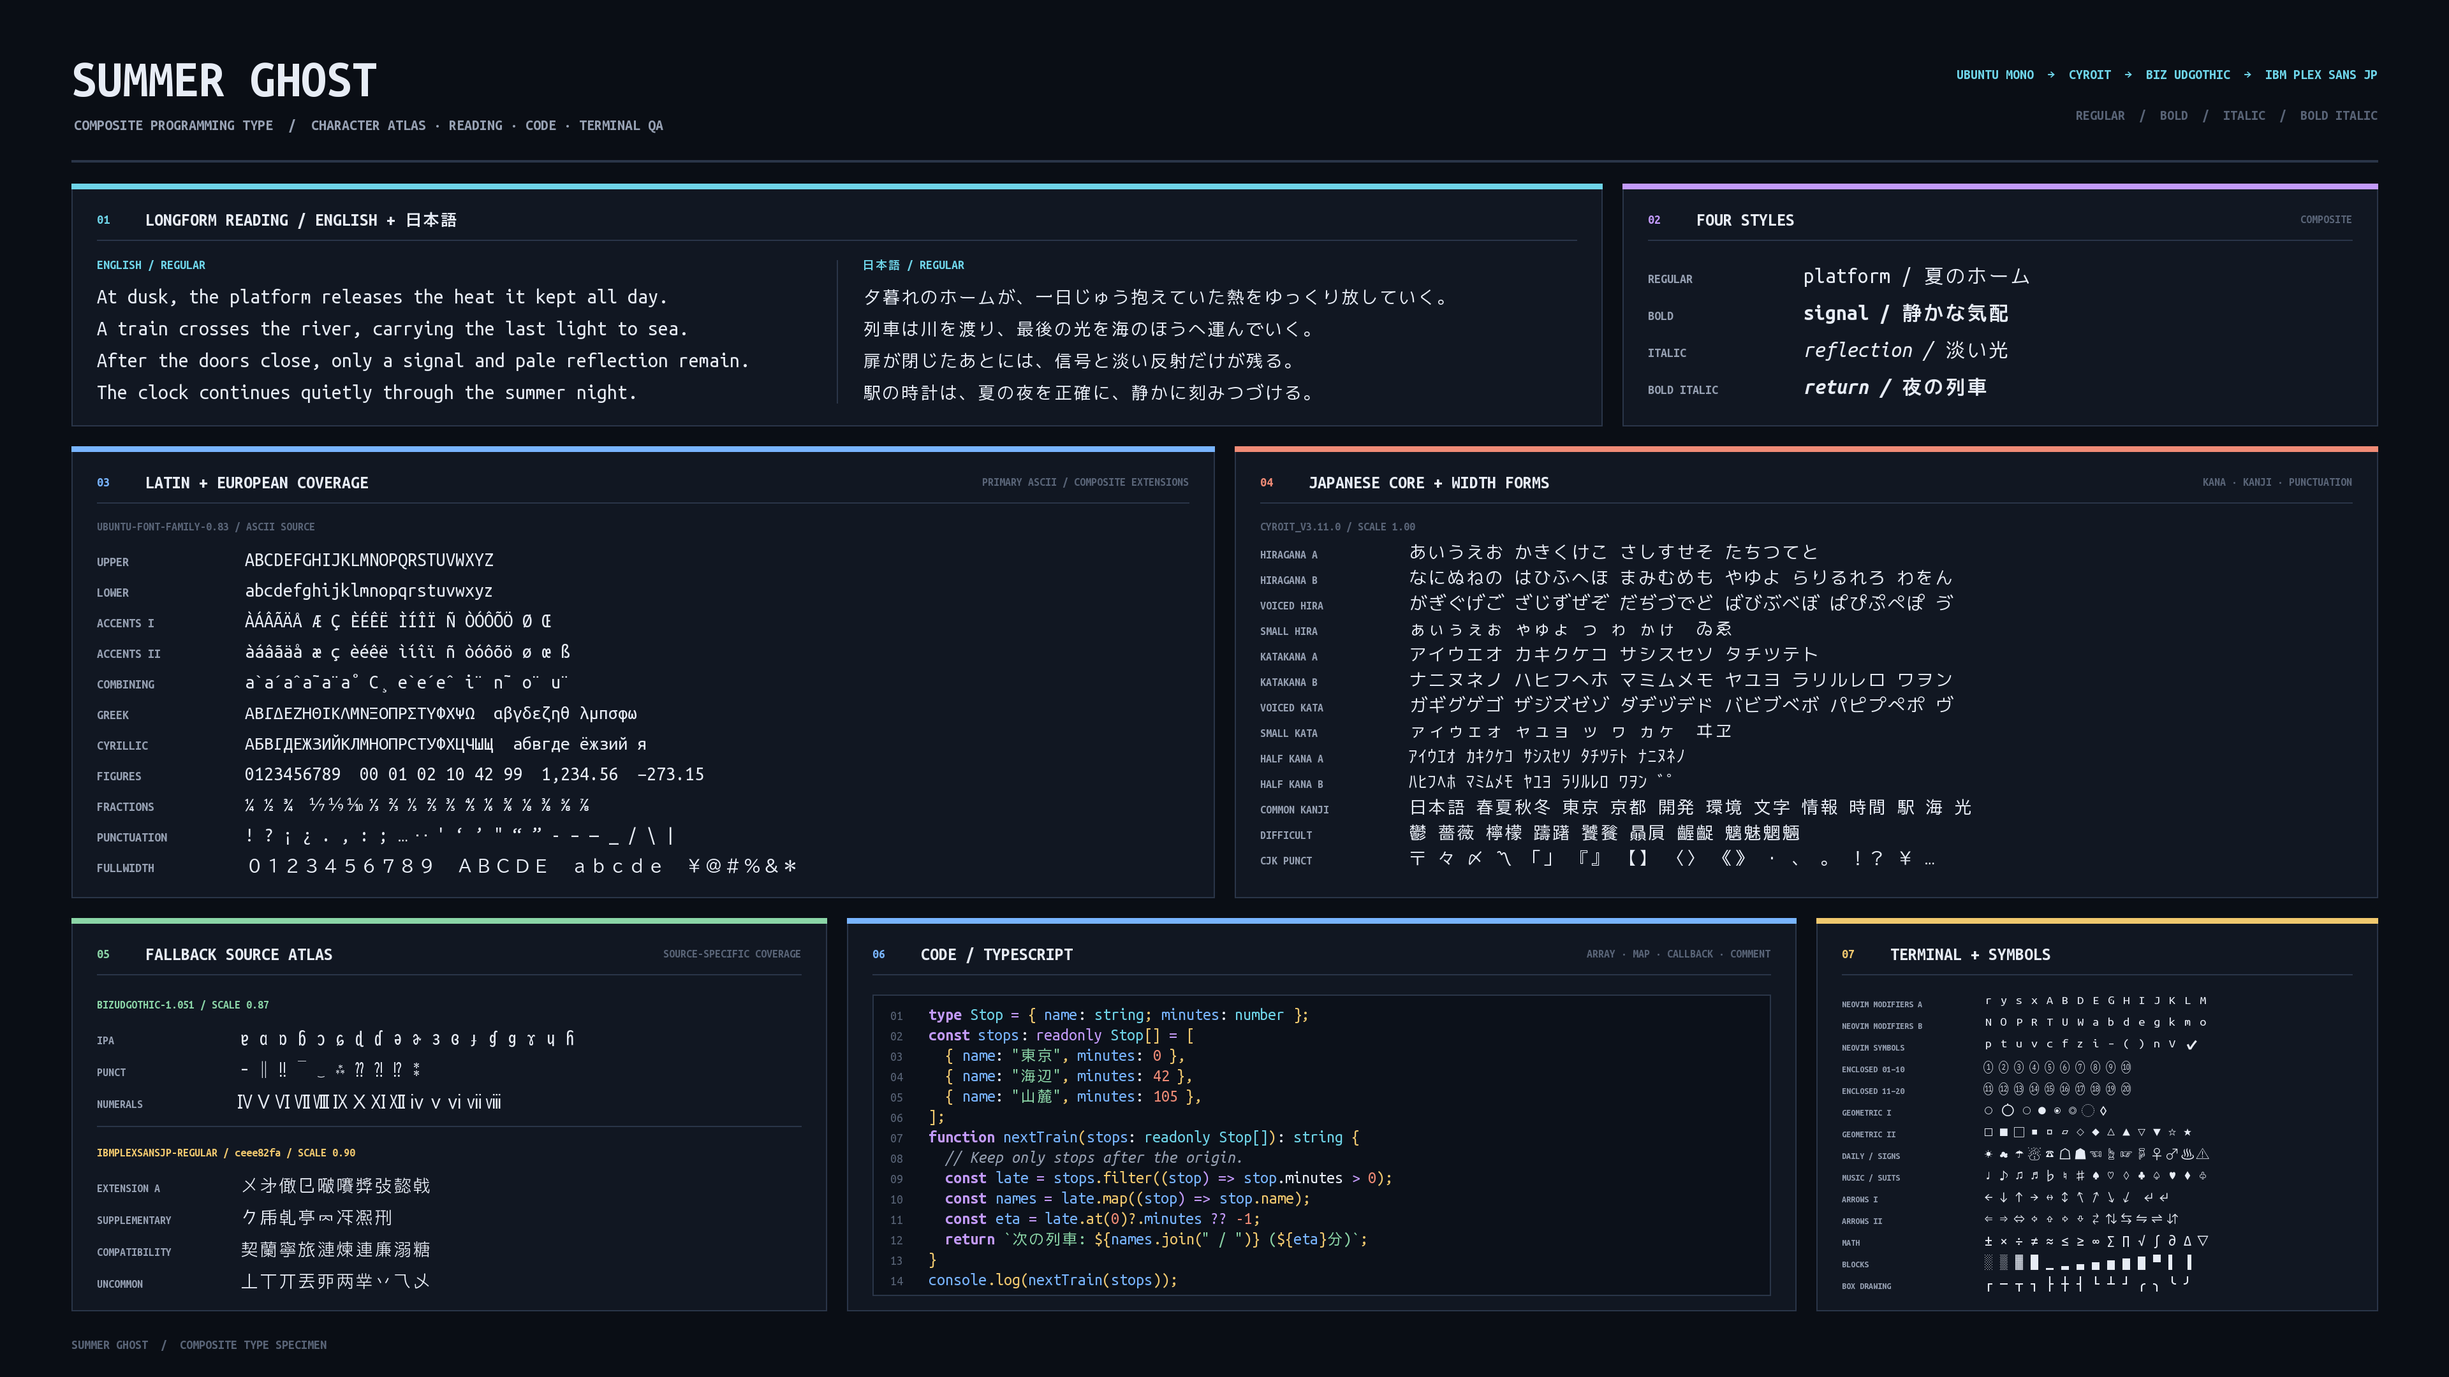
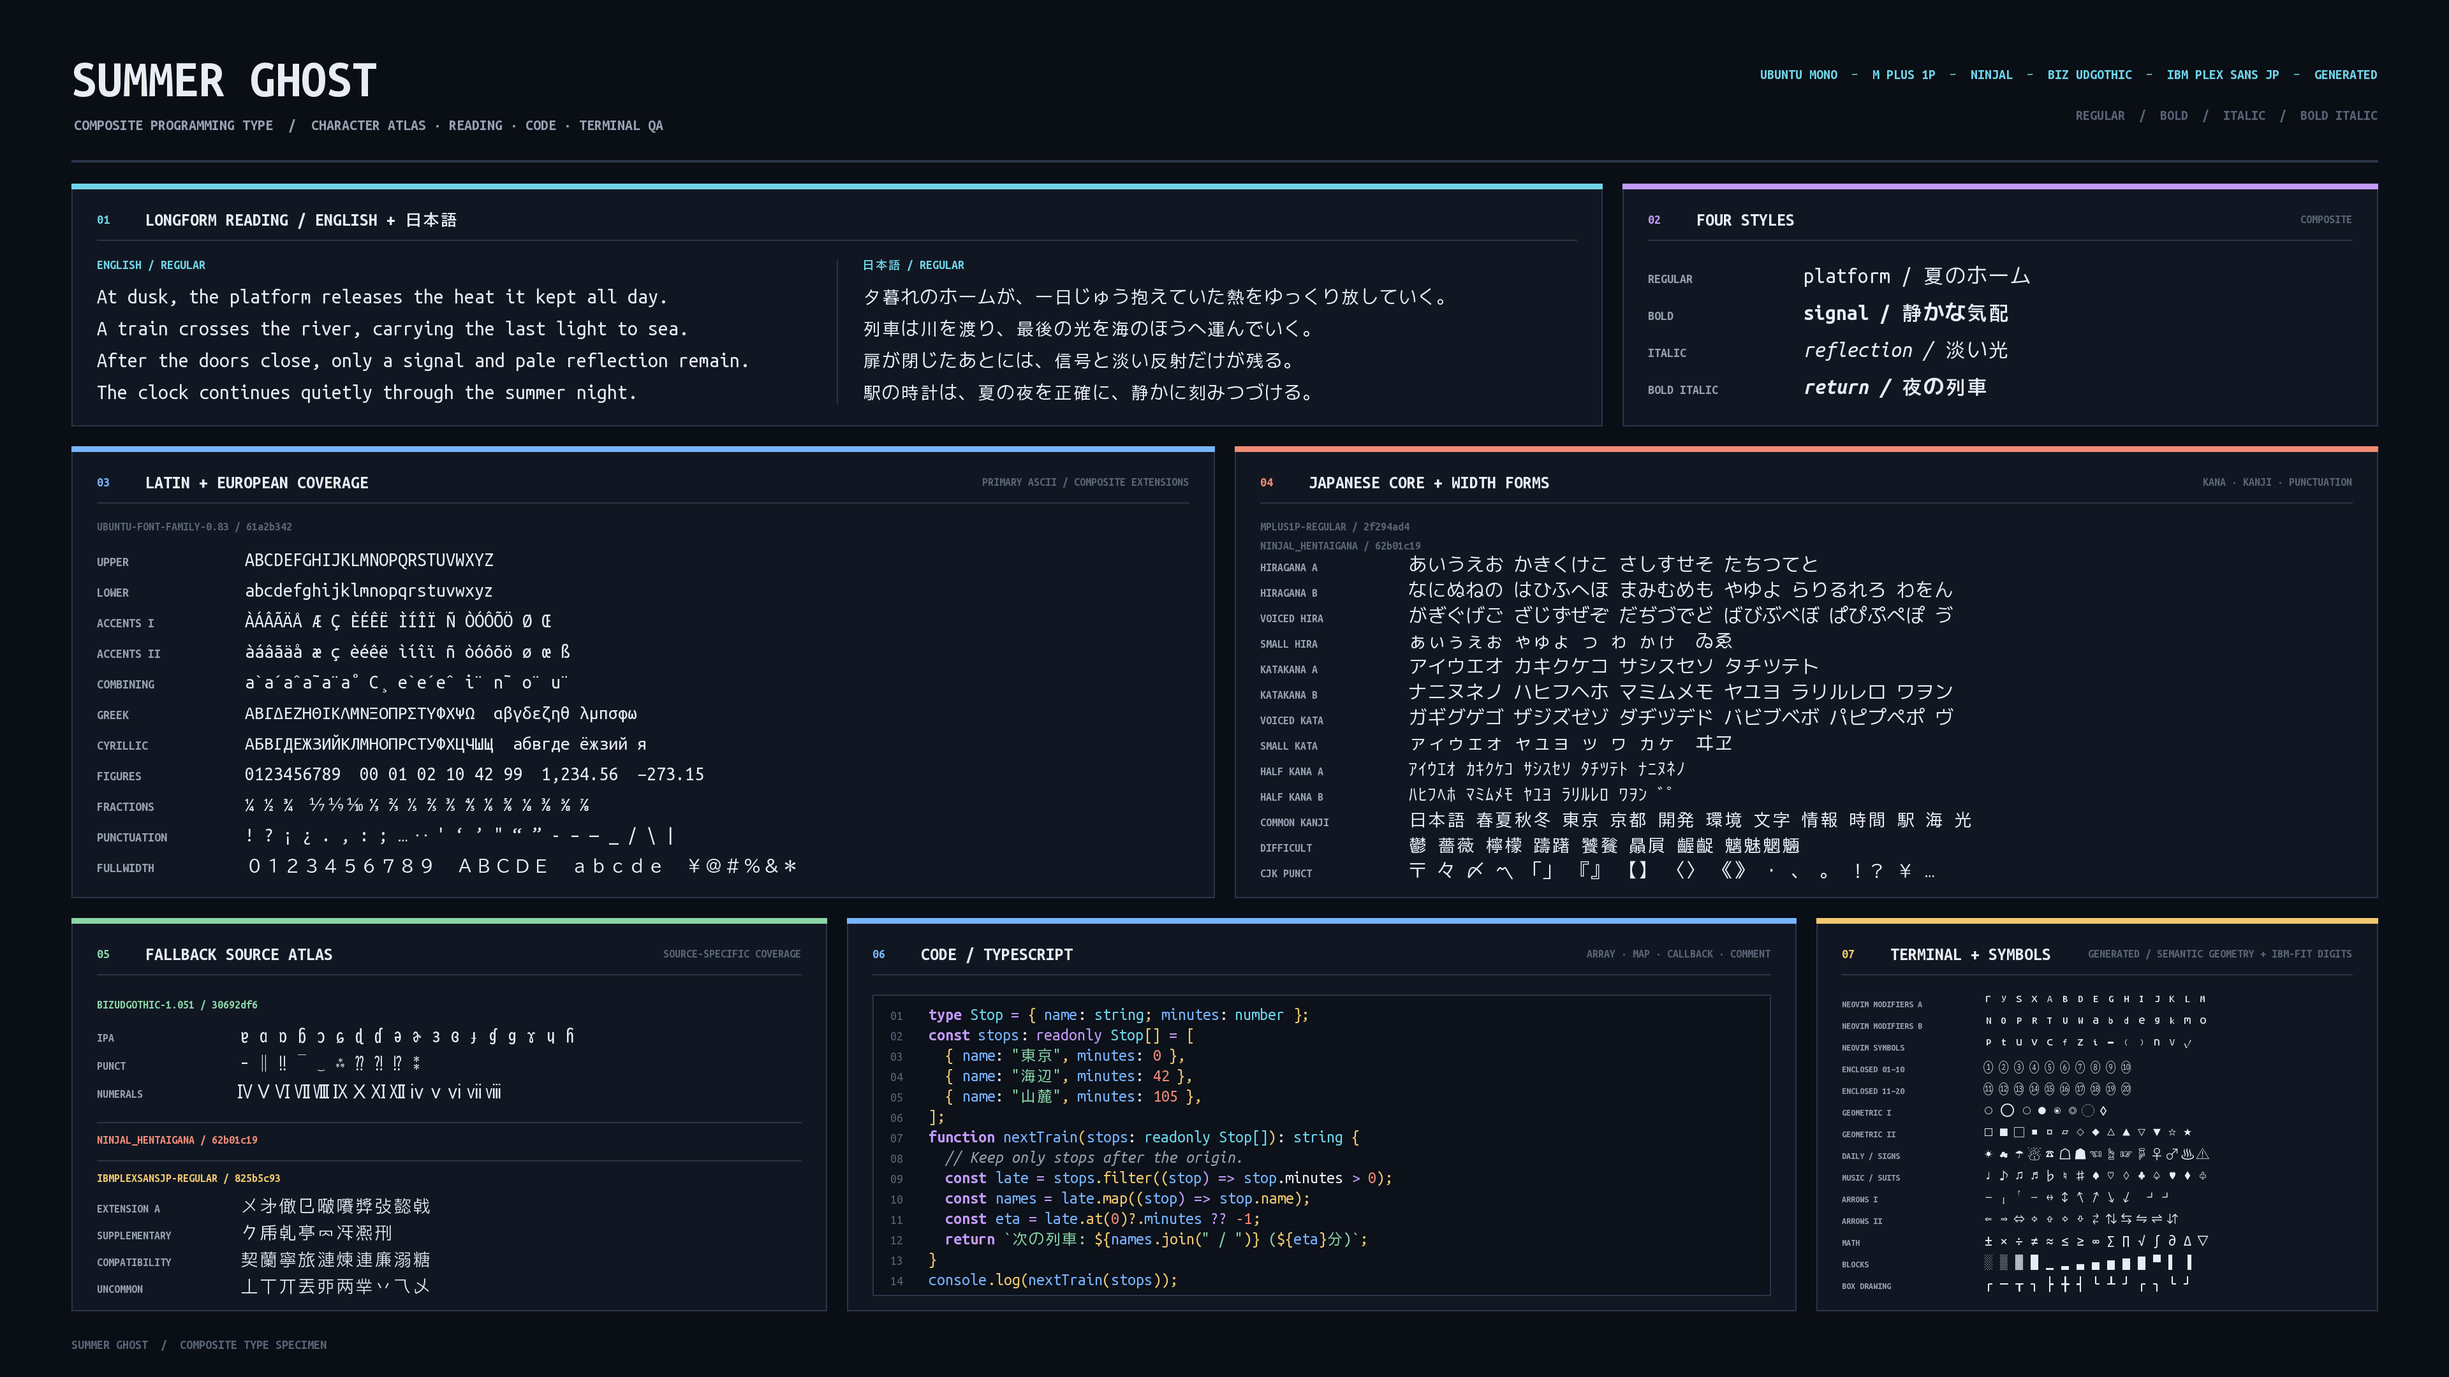
docs: update readme

diff --git a/scripts/render_specimen.py b/scripts/render_specimen.py
@@ -13,7 +13,6 @@ from io import BytesIO
 from pathlib import Path
 from typing import Any
 
-import build as font_build
 from fontTools.ttLib import TTFont
 from PIL import Image, ImageDraw, ImageFont
 
@@ -73,9 +72,11 @@ class Sources:
     """Source labels read from the generated provenance document."""
 
     ubuntu: str
-    cyroit: str
+    mplus1p: str
     biz: str
+    ninjal: str
     ibm: str
+    generated: str
 
 
 LATIN_ROWS = (
@@ -108,8 +109,8 @@ JAPANESE_ROWS = (
     Row("CJK PUNCT", "〒 々 〆 〽 「」 『』 【】 〈〉 《》 ・ 、 。 ！？ ￥ …"),
 )
 
-# These sets were selected by applying the build's source-precedence rules to the
-# source cmaps. Each character in a row resolves exclusively to the named fallback.
+# These sets are provenance probes. The final build may expose a full origin index or
+# only sample anchors; rendering remains useful in either case.
 BIZ_ROWS = (
     Row("IPA", "ɐ ɑ ɒ ɓ ɔ ɕ ɖ ɗ ə ɚ ɜ ɞ ɟ ɠ ɡ ɤ ɥ ɦ"),
     Row("PUNCT", "‐ ‖ ‼ ‾ ‿ ⁂ ⁇ ⁈ ⁉ ⁑"),
@@ -241,67 +242,95 @@ def font(style: str = "Regular", size: int = 16) -> ImageFont.FreeTypeFont:
     return ImageFont.truetype(BytesIO(font_data(style)), size=size * SCALE)
 
 
-def _asset_name(document: dict[str, Any], prefix: str) -> str:
-    """Return one provenance asset name by stable prefix."""
-    matches = [asset["name"] for asset in document["assets"] if asset["name"].startswith(prefix)]
-    if len(matches) != 1:
-        raise ValueError(f"expected one provenance asset for {prefix!r}, found {matches}")
-    return str(matches[0])
+def _asset_label(document: Mapping[str, Any], tokens: Sequence[str], fallback: str) -> str:
+    """Return a compact label without depending on a particular asset filename."""
+    assets = document.get("assets", ())
+    for asset in assets if isinstance(assets, Sequence) else ():
+        if not isinstance(asset, Mapping):
+            continue
+        haystack = " ".join(str(asset.get(key, "")) for key in ("name", "url")).casefold()
+        if all(token.casefold() in haystack for token in tokens):
+            name = str(asset.get("name", fallback)).removesuffix(".zip").removesuffix(".ttf")
+            digest = str(asset.get("sha256", ""))
+            suffix = f" / {digest[:8]}" if len(digest) >= 8 else ""
+            return f"{name.upper()}{suffix}"
+    return fallback
+
+
+def _style_record(document: Mapping[str, Any]) -> Mapping[str, Any]:
+    """Read the first style record while accepting future provenance wrappers."""
+    styles = document.get("styles", ())
+    if isinstance(styles, Sequence) and styles and isinstance(styles[0], Mapping):
+        return styles[0]
+    raise ValueError("provenance has no readable style record")
+
+
+def _parse_codepoint(raw_codepoint: object) -> int:
+    """Parse integer or U+XXXX provenance keys."""
+    if isinstance(raw_codepoint, int):
+        return raw_codepoint
+    text = str(raw_codepoint).strip()
+    if text[:2].casefold() == "u+":
+        text = text[2:]
+    return int(text, 16)
 
 
 def read_sources() -> Sources:
     """Derive visible source labels and verify provenance origin anchors."""
     document: dict[str, Any] = json.loads(PROVENANCE.read_text(encoding="utf-8"))
-    style = document["styles"][0]
-    scales = style["scales"]
-    origins = style["sample_origins"]
-    expected = {"U+0041": "ubuntu", "U+3042": "cyroit", "U+FF11": "biz", "U+3405": "ibm"}
-    if any(origins.get(codepoint) != source for codepoint, source in expected.items()):
-        raise ValueError(f"provenance anchors changed: {origins}")
-    ubuntu_asset = _asset_name(document, "ubuntu-font-family-")
-    cyroit_asset = _asset_name(document, "Cyroit_v3.11.0")
-    biz_asset = _asset_name(document, "BIZUDGothic-")
-    ibm_asset = _asset_name(document, "IBMPlexSansJP-Regular")
+    style = _style_record(document)
+    origins = style.get("sample_origins", {})
+    if not isinstance(origins, Mapping):
+        origins = {}
+    expected = {"U+0041": "ubuntu", "U+3042": "mplus1p", "U+FF11": "biz", "U+3405": "ibm"}
+    mismatches = {
+        codepoint: (expected_source, origins[codepoint])
+        for codepoint, expected_source in expected.items()
+        if codepoint in origins and origins[codepoint] != expected_source
+    }
+    if mismatches:
+        raise ValueError(f"provenance anchors changed: {mismatches}")
     return Sources(
-        ubuntu=f"{ubuntu_asset.removesuffix('.zip').upper()} / ASCII SOURCE",
-        cyroit=f"{cyroit_asset.removesuffix('.zip').upper()} / SCALE {scales['cyroit']:.2f}",
-        biz=f"{biz_asset.removesuffix('.zip').upper()} / SCALE {scales['biz']:.2f}",
-        ibm=(
-            f"{ibm_asset.removesuffix('.ttf').upper()} / {str(document['ibm_commit'])[:8]} / SCALE {scales['ibm']:.2f}"
-        ),
+        ubuntu=_asset_label(document, ("ubuntu",), "UBUNTU MONO / ASCII SOURCE"),
+        mplus1p=_asset_label(document, ("mplus1p", "regular"), "M PLUS 1P / JAPANESE BASE"),
+        biz=_asset_label(document, ("bizudgothic",), "BIZ UDGOTHIC / JAPANESE FALLBACK"),
+        ninjal=_asset_label(document, ("ninjal",), "NINJAL HENTAIGANA / DIRECT LAYER"),
+        ibm=_asset_label(document, ("ibmplexsansjp", "regular"), "IBM PLEX SANS JP / FALLBACK"),
+        generated="GENERATED / SEMANTIC GEOMETRY",
     )
 
 
-def regular_source_origins() -> Mapping[int, str]:
-    """Reconstruct Regular's origin map using the build's fixed source precedence."""
-    roots = font_build.fetch_sources()
-    paths = {
-        source: roots[source] / filename
-        for source, filename in zip(font_build.SOURCE_ORDER, font_build.STYLES["Regular"], strict=True)
-    }
-    source_cmaps: dict[str, set[int]] = {}
-    for source, path in paths.items():
-        with TTFont(path, lazy=True) as source_font:
-            source_cmaps[source] = set(source_font.getBestCmap())
-
-    origins = {codepoint: "ubuntu" for codepoint in source_cmaps["ubuntu"] if not font_build.is_private_use(codepoint)}
-    for codepoint in source_cmaps["cyroit"]:
-        if (
-            codepoint not in origins
-            and not font_build.is_private_use(codepoint)
-            and font_build.is_adjusted_japanese(codepoint)
-        ):
-            origins[codepoint] = "cyroit"
-    for source in font_build.SOURCE_ORDER[2:]:
-        for codepoint in source_cmaps[source]:
-            if codepoint not in origins and not font_build.is_private_use(codepoint):
-                origins[codepoint] = source
-    return origins
+def regular_source_origins(document: Mapping[str, Any]) -> Mapping[int, str]:
+    """Read an optional provenance origin index without importing the builder."""
+    style = _style_record(document)
+    candidates = (style.get("codepoint_origins"), style.get("origins"), document.get("origin_index"))
+    candidate = next((value for value in candidates if isinstance(value, Mapping)), {})
+    parsed: dict[int, str] = {}
+    for raw_codepoint, origin in candidate.items():
+        try:
+            codepoint = _parse_codepoint(raw_codepoint)
+        except (TypeError, ValueError):
+            continue
+        parsed[codepoint] = str(origin)
+    return parsed
 
 
 def validate_fallback_samples() -> None:
     """Verify fallback labels against source precedence and final font coverage."""
-    origins = regular_source_origins()
+    document: dict[str, Any] = json.loads(PROVENANCE.read_text(encoding="utf-8"))
+    style = _style_record(document)
+    origins = dict(regular_source_origins(document))
+    sample_origins = style.get("sample_origins", {})
+    if isinstance(sample_origins, Mapping):
+        for raw_codepoint, origin in sample_origins.items():
+            try:
+                origins[_parse_codepoint(raw_codepoint)] = str(origin)
+            except (TypeError, ValueError):
+                continue
+    allowed = {"ubuntu", "mplus1p", "biz", "ninjal", "ibm", "generated"}
+    unknown = sorted(set(origins.values()) - allowed)
+    if unknown:
+        raise ValueError(f"unsupported provenance origins: {unknown}")
     with TTFont(BytesIO(font_data("Regular")), lazy=True) as generated:
         cmap = generated.getBestCmap()
     for expected_source, sample_rows in (("biz", BIZ_ROWS), ("ibm", IBM_ROWS)):
@@ -310,7 +339,7 @@ def validate_fallback_samples() -> None:
             wrong_origins = [
                 f"U+{codepoint:04X}:{origins.get(codepoint, 'missing')}"
                 for codepoint in codepoints
-                if origins.get(codepoint) != expected_source
+                if codepoint in origins and origins[codepoint] != expected_source
             ]
             if wrong_origins:
                 raise ValueError(f"{expected_source} {row.label} origin mismatch: {wrong_origins}")
@@ -399,7 +428,7 @@ def draw_header(canvas: Canvas, sources: Sources) -> None:
     )
     canvas.text(
         (LOGICAL_WIDTH - MARGIN, 62),
-        "UBUNTU MONO  →  CYROIT  →  BIZ UDGOTHIC  →  IBM PLEX SANS JP",
+        "UBUNTU MONO  →  M PLUS 1P  →  NINJAL  →  BIZ UDGOTHIC  →  IBM PLEX SANS JP  →  GENERATED",
         face=font("Bold", 11),
         fill=CYAN,
         anchor="rs",
@@ -481,10 +510,11 @@ def draw_japanese(canvas: Canvas, sources: Sources) -> None:
     box = (column_x(6), 350, column_x(6) + span(6), 704)
     panel(canvas, box, "04", "JAPANESE CORE + WIDTH FORMS", CORAL, "KANA · KANJI · PUNCTUATION")
     with canvas.within(box):
-        canvas.text((box[0] + PANEL_PAD, 416), sources.cyroit, face=font("Bold", 9), fill=FAINT, anchor="ls")
+        canvas.text((box[0] + PANEL_PAD, 416), sources.mplus1p, face=font("Bold", 9), fill=FAINT, anchor="ls")
+        canvas.text((box[0] + PANEL_PAD, 431), sources.ninjal, face=font("Bold", 9), fill=FAINT, anchor="ls")
         rows(
             canvas,
-            (box[0] + PANEL_PAD, 438),
+            (box[0] + PANEL_PAD, 448),
             JAPANESE_ROWS,
             label_width=116,
             step=20,
@@ -499,10 +529,12 @@ def draw_fallbacks(canvas: Canvas, sources: Sources) -> None:
     panel(canvas, box, "05", "FALLBACK SOURCE ATLAS", GREEN, "SOURCE-SPECIFIC COVERAGE")
     with canvas.within(box):
         canvas.text((box[0] + PANEL_PAD, 791), sources.biz, face=font("Bold", 9), fill=GREEN, anchor="ls")
-        rows(canvas, (box[0] + PANEL_PAD, 819), BIZ_ROWS, label_width=112, step=25, size=15, label_size=9)
-        canvas.line((box[0] + PANEL_PAD, 883, box[2] - PANEL_PAD, 883))
-        canvas.text((box[0] + PANEL_PAD, 907), sources.ibm, face=font("Bold", 9), fill=AMBER, anchor="ls")
-        rows(canvas, (box[0] + PANEL_PAD, 935), IBM_ROWS, label_width=112, step=25, size=15, label_size=9)
+        rows(canvas, (box[0] + PANEL_PAD, 817), BIZ_ROWS, label_width=112, step=22, size=15, label_size=9)
+        canvas.line((box[0] + PANEL_PAD, 880, box[2] - PANEL_PAD, 880))
+        canvas.text((box[0] + PANEL_PAD, 897), sources.ninjal, face=font("Bold", 9), fill=CORAL, anchor="ls")
+        canvas.line((box[0] + PANEL_PAD, 910, box[2] - PANEL_PAD, 910))
+        canvas.text((box[0] + PANEL_PAD, 927), sources.ibm, face=font("Bold", 9), fill=AMBER, anchor="ls")
+        rows(canvas, (box[0] + PANEL_PAD, 951), IBM_ROWS, label_width=112, step=21, size=15, label_size=9)
 
 
 def draw_code(canvas: Canvas) -> None:
@@ -661,10 +693,10 @@ def draw_code(canvas: Canvas) -> None:
             runs(canvas, (code_box[0] + 44, baseline), syntax_line, size=13)
 
 
-def draw_terminal(canvas: Canvas) -> None:
+def draw_terminal(canvas: Canvas, sources: Sources) -> None:
     """Draw a dense, non-repeating atlas of terminal and everyday symbols."""
     box = (column_x(9), 720, column_x(9) + span(3), 1028)
-    panel(canvas, box, "07", "TERMINAL + SYMBOLS", AMBER)
+    panel(canvas, box, "07", "TERMINAL + SYMBOLS", AMBER, f"{sources.generated} + IBM-FIT DIGITS")
     with canvas.within(box):
         rows(
             canvas,
@@ -704,7 +736,7 @@ def render() -> Image.Image:
     draw_japanese(canvas, sources)
     draw_fallbacks(canvas, sources)
     draw_code(canvas)
-    draw_terminal(canvas)
+    draw_terminal(canvas, sources)
     draw_footer(canvas)
     return image
 

diff --git a/README.md b/README.md
@@ -3,8 +3,6 @@
 A Japanese monospace font for Ghostty.
 It combines Ubuntu Mono Latin glyphs with a compatible, familiar Japanese layer and deterministic terminal geometry.
 
-## Source architecture
-
 - [Ubuntu Mono](https://design.ubuntu.com/font) supplies Latin and the base for modifier symbols.
 - [M PLUS 1p](https://fonts.google.com/specimen/M+PLUS+1p) Regular/Bold supply the primary Japanese glyph selection and are fetched from a pinned Google Fonts revision for reproducible builds.
 - [NINJAL Hentaigana](https://cid.ninjal.ac.jp/kana/font/) supplies its dedicated 288-codepoint layer directly from the official distribution.
@@ -13,11 +11,9 @@ It combines Ubuntu Mono Latin glyphs with a compatible, familiar Japanese layer 
 - Return marks, arrows, check marks, modifiers, box/block drawing, and other semantic terminal geometry are generated locally from documented cell rules.
   Enclosed digits retain IBM Plex Sans JP outlines and receive a local cell fit.
 
-The authoritative precedence is Ubuntu Mono → M PLUS 1p → NINJAL Hentaigana (288 codepoints) → BIZ UDGothic → IBM Plex Sans JP → generated geometry.
+![](specimen.png)
 
-Source ownership, pinned URLs, SHA-256 values, and licenses are recorded in `dist/provenance.json` and [THIRD_PARTY_LICENSES.md](THIRD_PARTY_LICENSES.md).
-
-## Metrics and rendering
+### Metrics and rendering
 
 - UPM 1024 with 512-unit half-width and 1024-unit full-width cells.
 - Ascent 850, descent 174, line gap 0, and fixed-pitch advances.
@@ -25,8 +21,6 @@ Source ownership, pinned URLs, SHA-256 values, and licenses are recorded in `dis
 - The Japanese layer and terminal symbols are fitted for stable one-cell and two-cell rendering.
   Ghostty may still apply contextual fitting to symbol-like characters, so apparent size can vary with neighboring cells or IME state.
 - The specimen shows source roles and generated geometry without asserting exact visual identity.
-
-![](specimen.png)
 
 ## Installation
 
